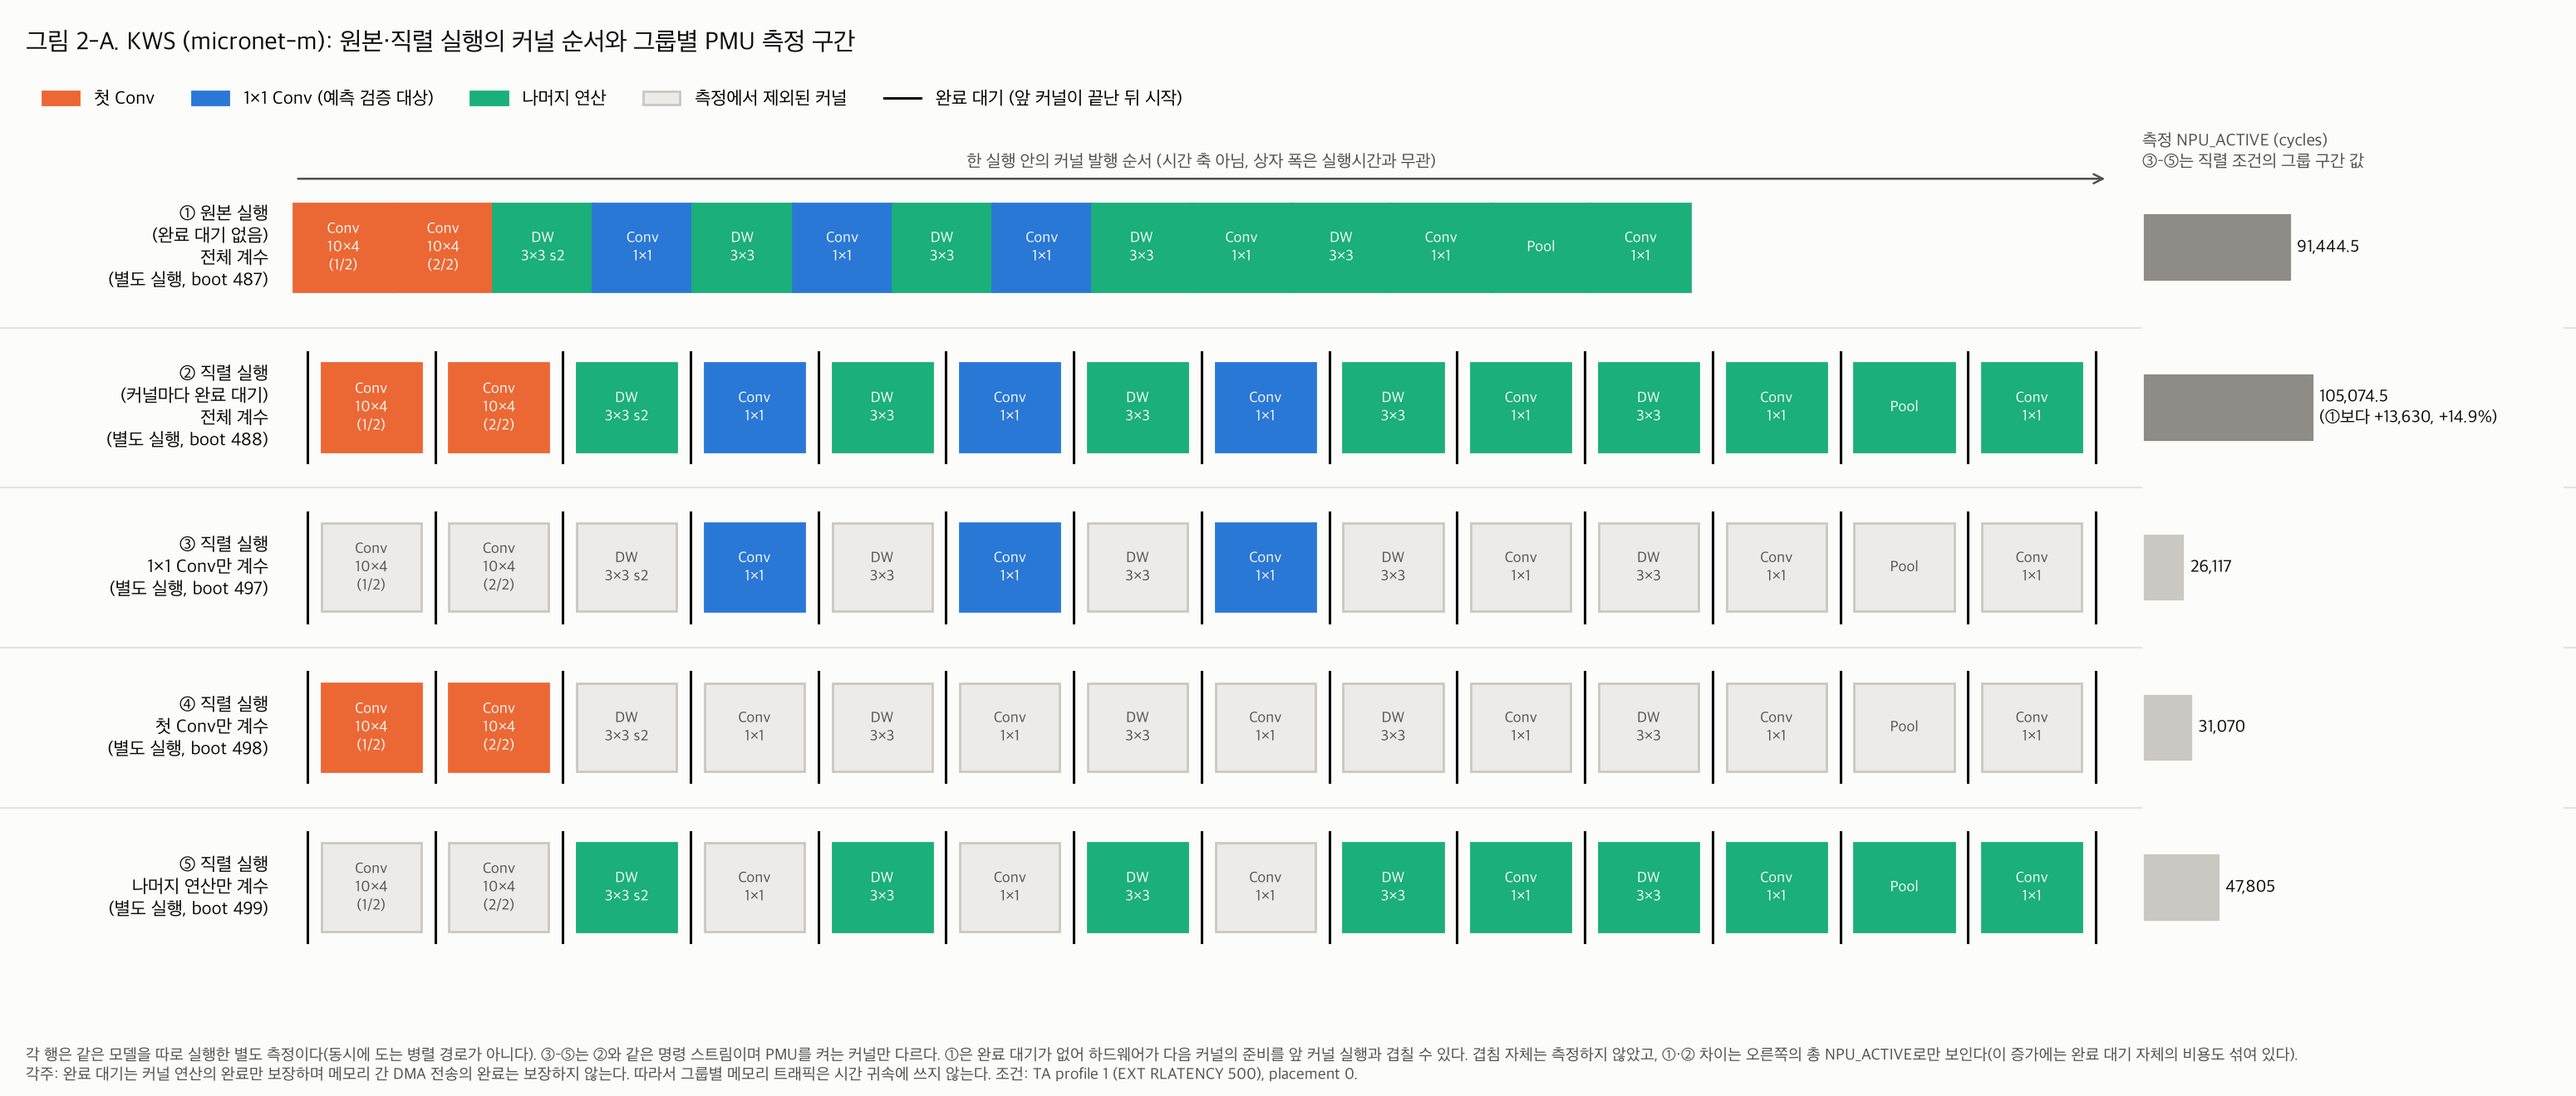
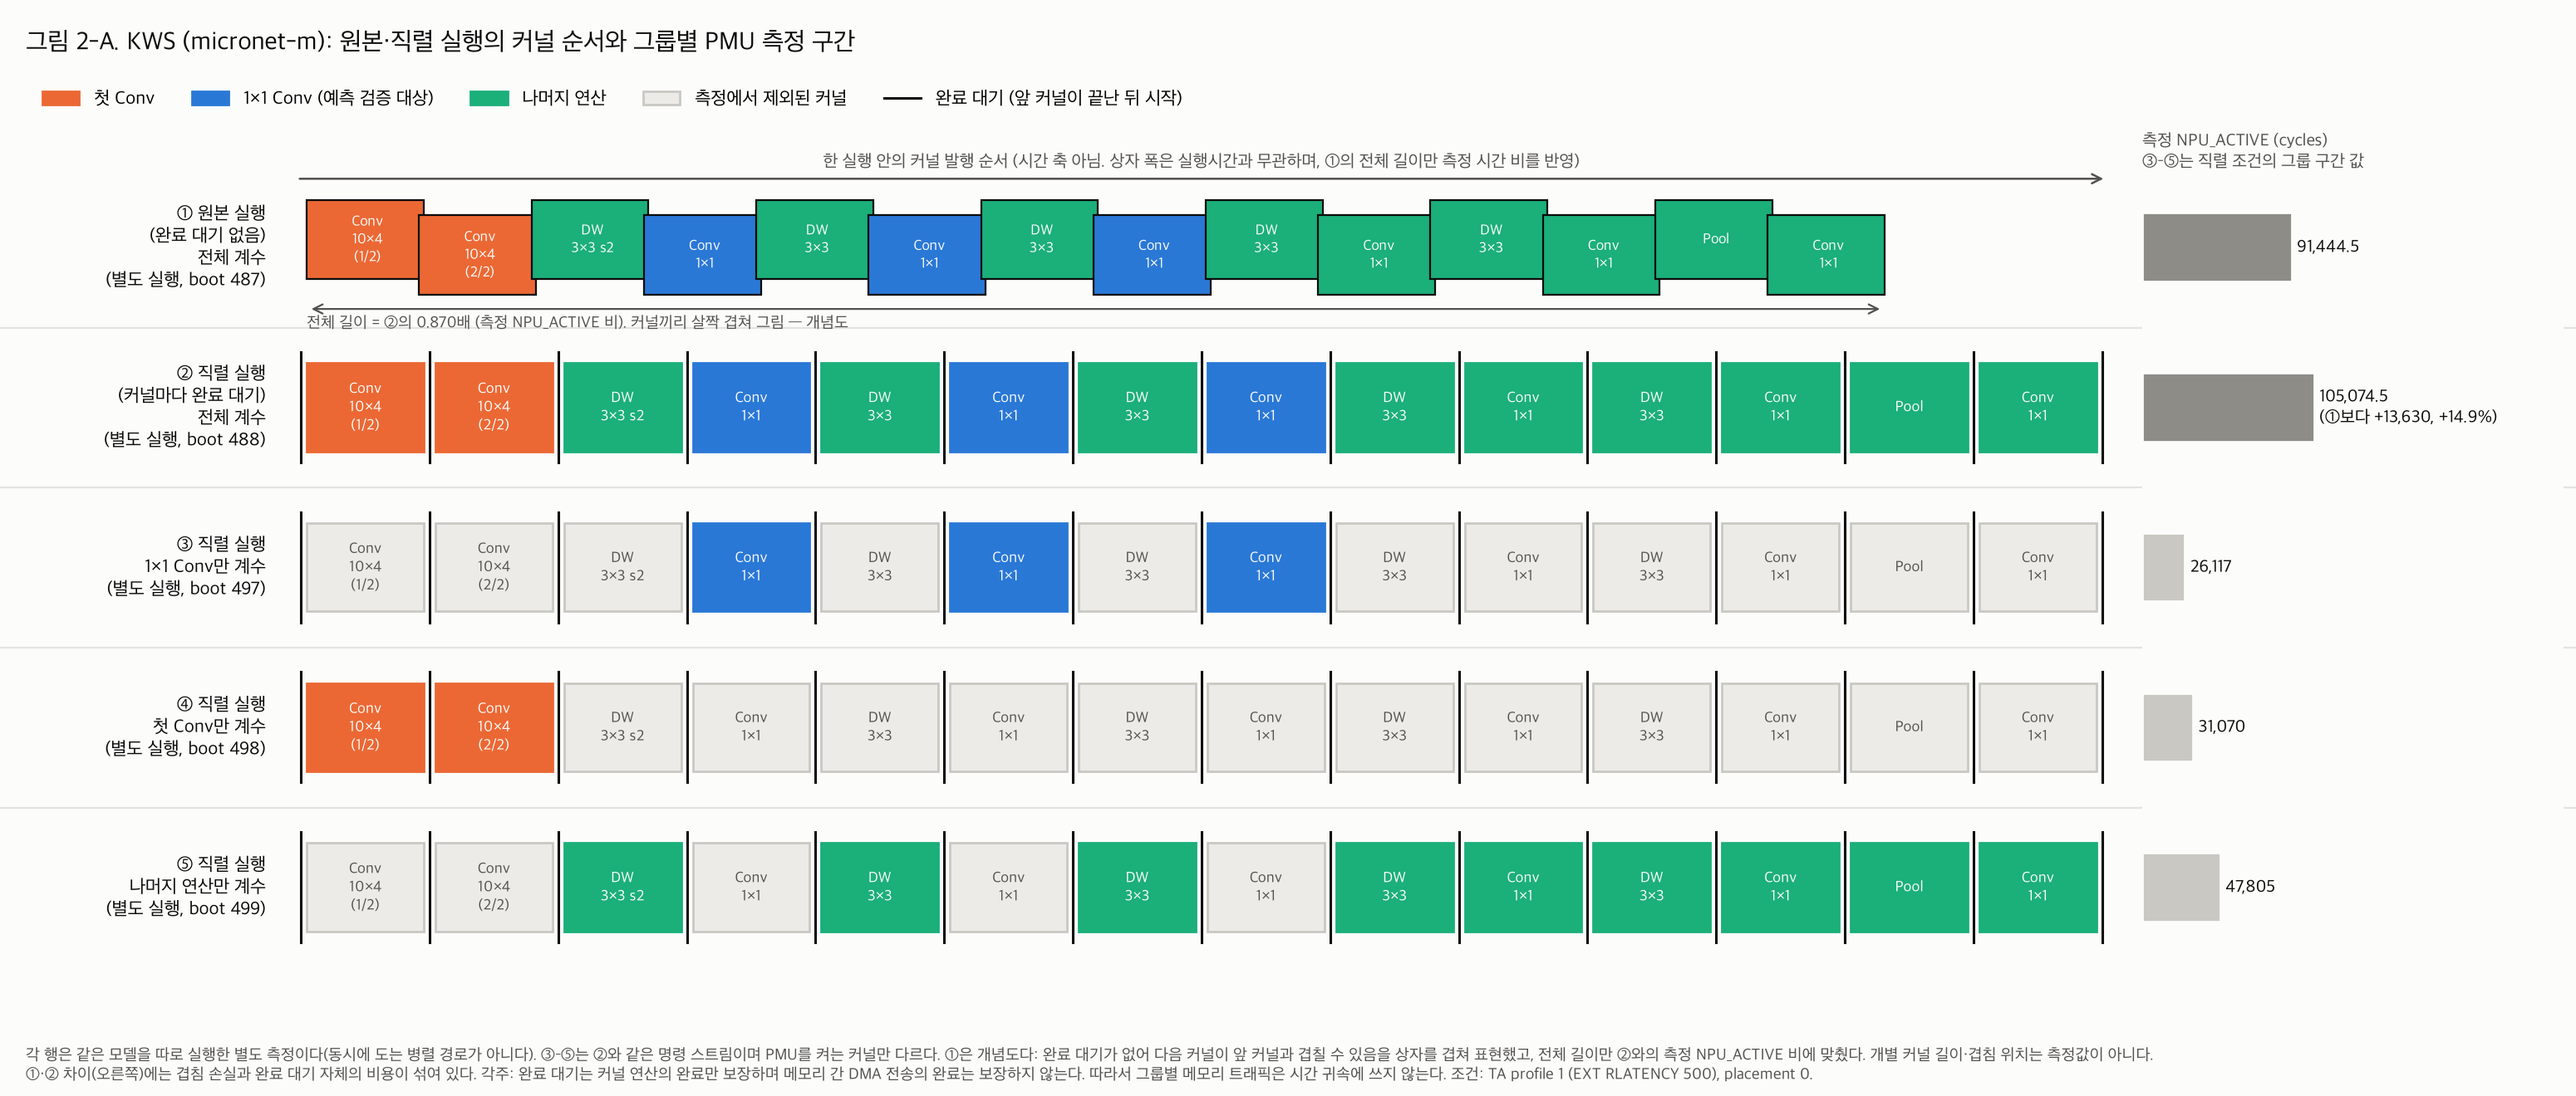
figure: Fig 2 row 1 drawn as overlapping kernels (schematic; total length = measured NPU_ACTIVE ratio to the serial run), row 2 serial with barriers

diff --git a/host/analysis/fig2_x3_stream.py b/host/analysis/fig2_x3_stream.py
@@ -119,9 +119,14 @@ def draw(model: str, tag: str, out: pathlib.Path) -> list[dict]:
     for k in order:
         split.setdefault(ktf[k], []).append(k)
     n = len(order)
-    bw, gap = 1.0, 0.28
+    bw, gap = 1.0, 0.1
     x3 = __import__("json").loads((REPO / "results/fi101_stage6ex3/stage6ex3_summary.json").read_text())["results"]
     npu = {c: x3[f"x3_{tag}_{c}"]["stats"]["1"]["35"] for c, _ in SEQ_ROWS}      # (median, range), pass A
+    # schematic row 1: only its total length relative to row 2 is measured (NPU_ACTIVE B0 / B1)
+    l2 = n * bw + (n + 1) * gap
+    ratio = npu["B0"][0] / npu["B1"][0]
+    step = (ratio * l2 - bw) / (n - 1)
+    assert step < bw, "row 1 would not overlap"
     fig, (ax, bx) = plt.subplots(1, 2, figsize=(15.5, 6.6), gridspec_kw=dict(width_ratios=[4.8, 1.1]))
     ax.grid(False)
     log = []
@@ -131,6 +136,27 @@ def draw(model: str, tag: str, out: pathlib.Path) -> list[dict]:
             ax.plot([-3.2, 99], [y - 0.72] * 2, color=F1.GRID, linewidth=0.8, clip_on=False)
         serial = cond != "B0"
         cnt = counted(rows[cond]) if serial else {k: 1 for k in order}
+        if not serial:                               # stacked on two lanes, each kernel starts before the previous ends
+            x0 = gap
+            for i, k in enumerate(order):
+                g = g_of[k]
+                yy = y - 0.07 if i % 2 == 0 else y + 0.07       # small offset so the overlapped edge stays visible
+                ax.add_patch(Rectangle((x0 + i * step, yy - 0.36), bw, 0.72, facecolor=GCOL[g], edgecolor=F1.INK,
+                                       linewidth=0.8, zorder=2 + i))
+                parts = split[ktf[k]]
+                text = lab[ktf[k]] + (f"\n({parts.index(k) + 1}/{len(parts)})" if len(parts) > 1 else "")
+                ax.text(x0 + i * step + bw / 2 + (bw - step) / 2, yy, text, ha="center", va="center", fontsize=6.4,
+                        color=F1.SURF, zorder=40)
+                log.append(dict(model=model, cond=cond, boot=BOOTS[model][cond], cmd="KERNEL", kernel=k,
+                                kind=c_kind(rows[cond], k), tflite_op=ktf[k], group=g, counted=1))
+            end = x0 + (n - 1) * step + bw
+            ax.annotate("", xy=(end, y + 0.56), xytext=(x0, y + 0.56),
+                        arrowprops=dict(arrowstyle="<->", color=F1.INK2, linewidth=0.8))
+            ax.text(x0, y + 0.6, f"전체 길이 = ②의 {ratio:.3f}배 (측정 NPU_ACTIVE 비). 커널끼리 살짝 겹쳐 그림 — 개념도",
+                    ha="left", va="top", fontsize=7, color=F1.INK2)
+            ax.text(-0.25, y, f"{desc}\n(별도 실행, boot {BOOTS[model][cond]})", ha="right", va="center", fontsize=8,
+                    color=F1.INK)
+            continue
         x = 0.0
         if serial:                                   # the serial stream also waits before the first kernel
             ax.plot([gap / 2] * 2, [y - 0.5, y + 0.5], color=F1.INK, linewidth=1.1)
@@ -182,7 +208,7 @@ def draw(model: str, tag: str, out: pathlib.Path) -> list[dict]:
         ax.spines[sp].set_visible(False)
     ax.annotate("", xy=(total, -0.62), xytext=(0, -0.62),
                 arrowprops=dict(arrowstyle="->", color=F1.INK2, linewidth=0.9))
-    ax.text(total / 2, -0.68, "한 실행 안의 커널 발행 순서 (시간 축 아님, 상자 폭은 실행시간과 무관)", ha="center", va="bottom", fontsize=7.5,
+    ax.text(total / 2, -0.68, "한 실행 안의 커널 발행 순서 (시간 축 아님. 상자 폭은 실행시간과 무관하며, ①의 전체 길이만 측정 시간 비를 반영)", ha="center", va="bottom", fontsize=7.5,
             color=F1.INK2)
     leg = [Rectangle((0, 0), 1, 1, facecolor=GCOL[g], edgecolor=GCOL[g]) for g in ("G_0", "G_V", "G_R")]
     leg += [Rectangle((0, 0), 1, 1, facecolor="#ecebe7", edgecolor="#c9c8c2"),
@@ -194,8 +220,8 @@ def draw(model: str, tag: str, out: pathlib.Path) -> list[dict]:
              ha="left", va="top", fontsize=11, color=F1.INK)
     fig.text(0.01, 0.015,
              "각 행은 같은 모델을 따로 실행한 별도 측정이다(동시에 도는 병렬 경로가 아니다). ③–⑤는 ②와 같은 명령 스트림이며 PMU를 켜는 커널만 다르다. "
-             "①은 완료 대기가 없어 하드웨어가 다음 커널의 준비를 앞 커널 실행과 겹칠 수 있다. 겹침 자체는 측정하지 않았고, "
-             "①·② 차이는 오른쪽의 총 NPU_ACTIVE로만 보인다(이 증가에는 완료 대기 자체의 비용도 섞여 있다).\n"
+             "①은 개념도다: 완료 대기가 없어 다음 커널이 앞 커널과 겹칠 수 있음을 상자를 겹쳐 표현했고, 전체 길이만 ②와의 측정 NPU_ACTIVE 비에 맞췄다. "
+             "개별 커널 길이·겹침 위치는 측정값이 아니다.\n①·② 차이(오른쪽)에는 겹침 손실과 완료 대기 자체의 비용이 섞여 있다. "
              "각주: 완료 대기는 커널 연산의 완료만 보장하며 메모리 간 DMA 전송의 완료는 보장하지 않는다. 따라서 그룹별 메모리 트래픽은 "
              "시간 귀속에 쓰지 않는다. 조건: TA profile 1 (EXT RLATENCY 500), placement 0.",
              fontsize=7, color=F1.INK2)
